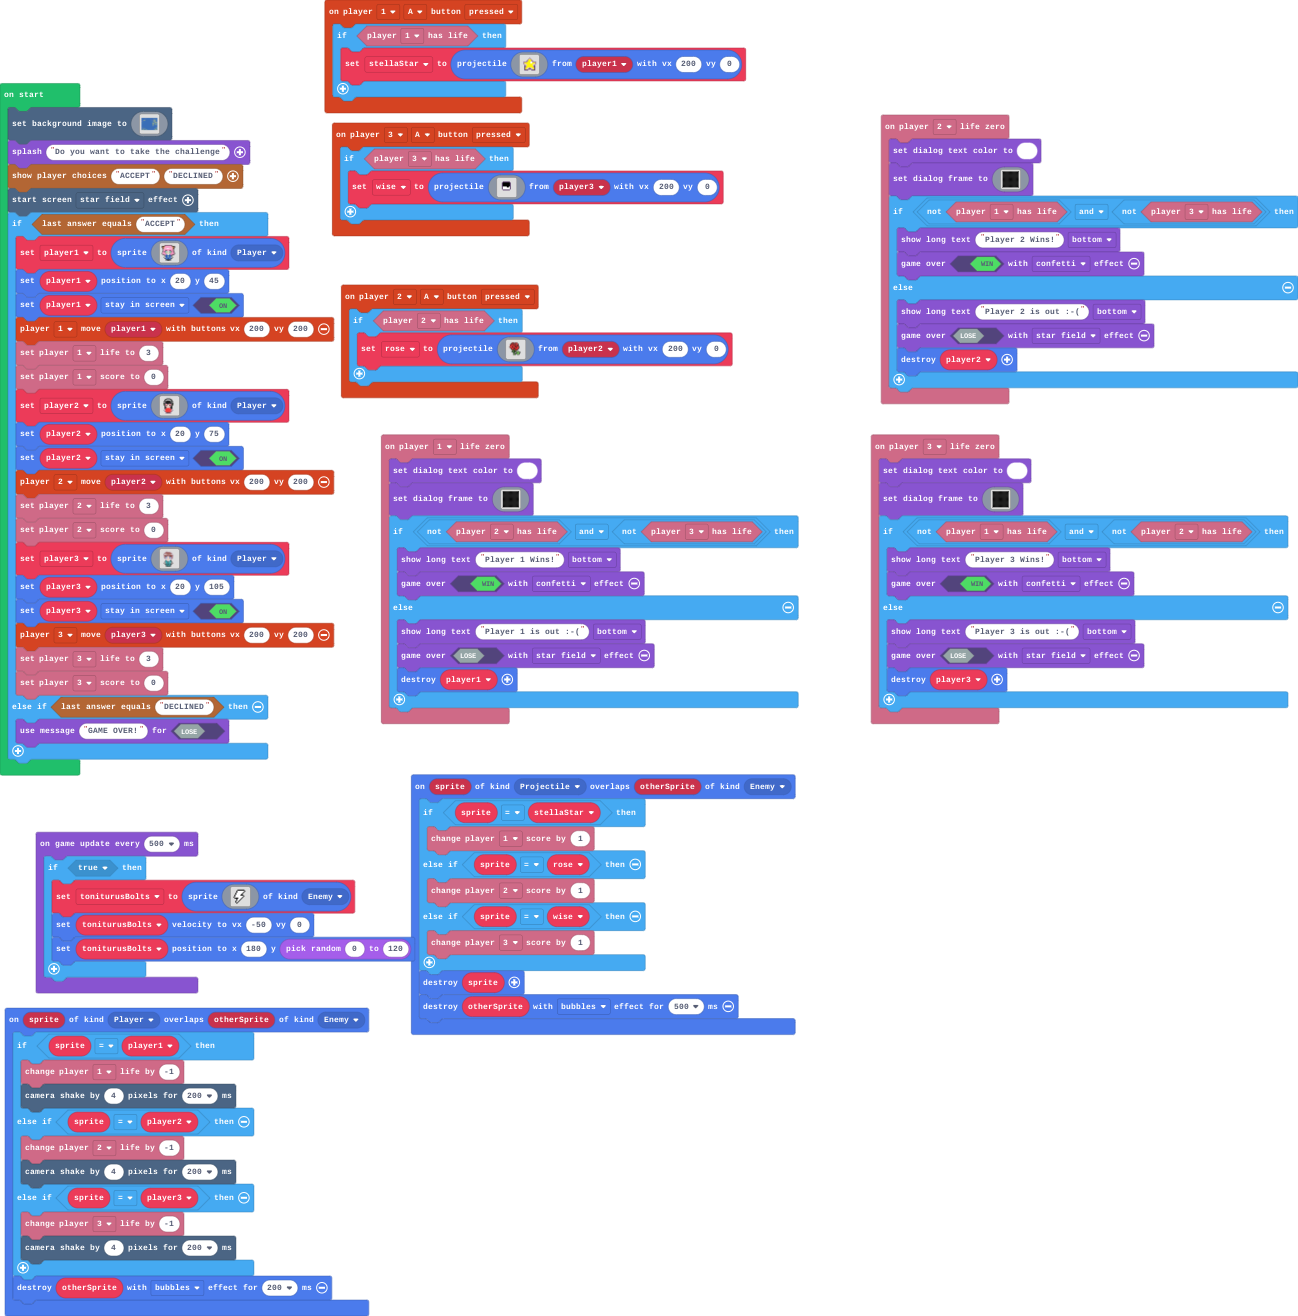
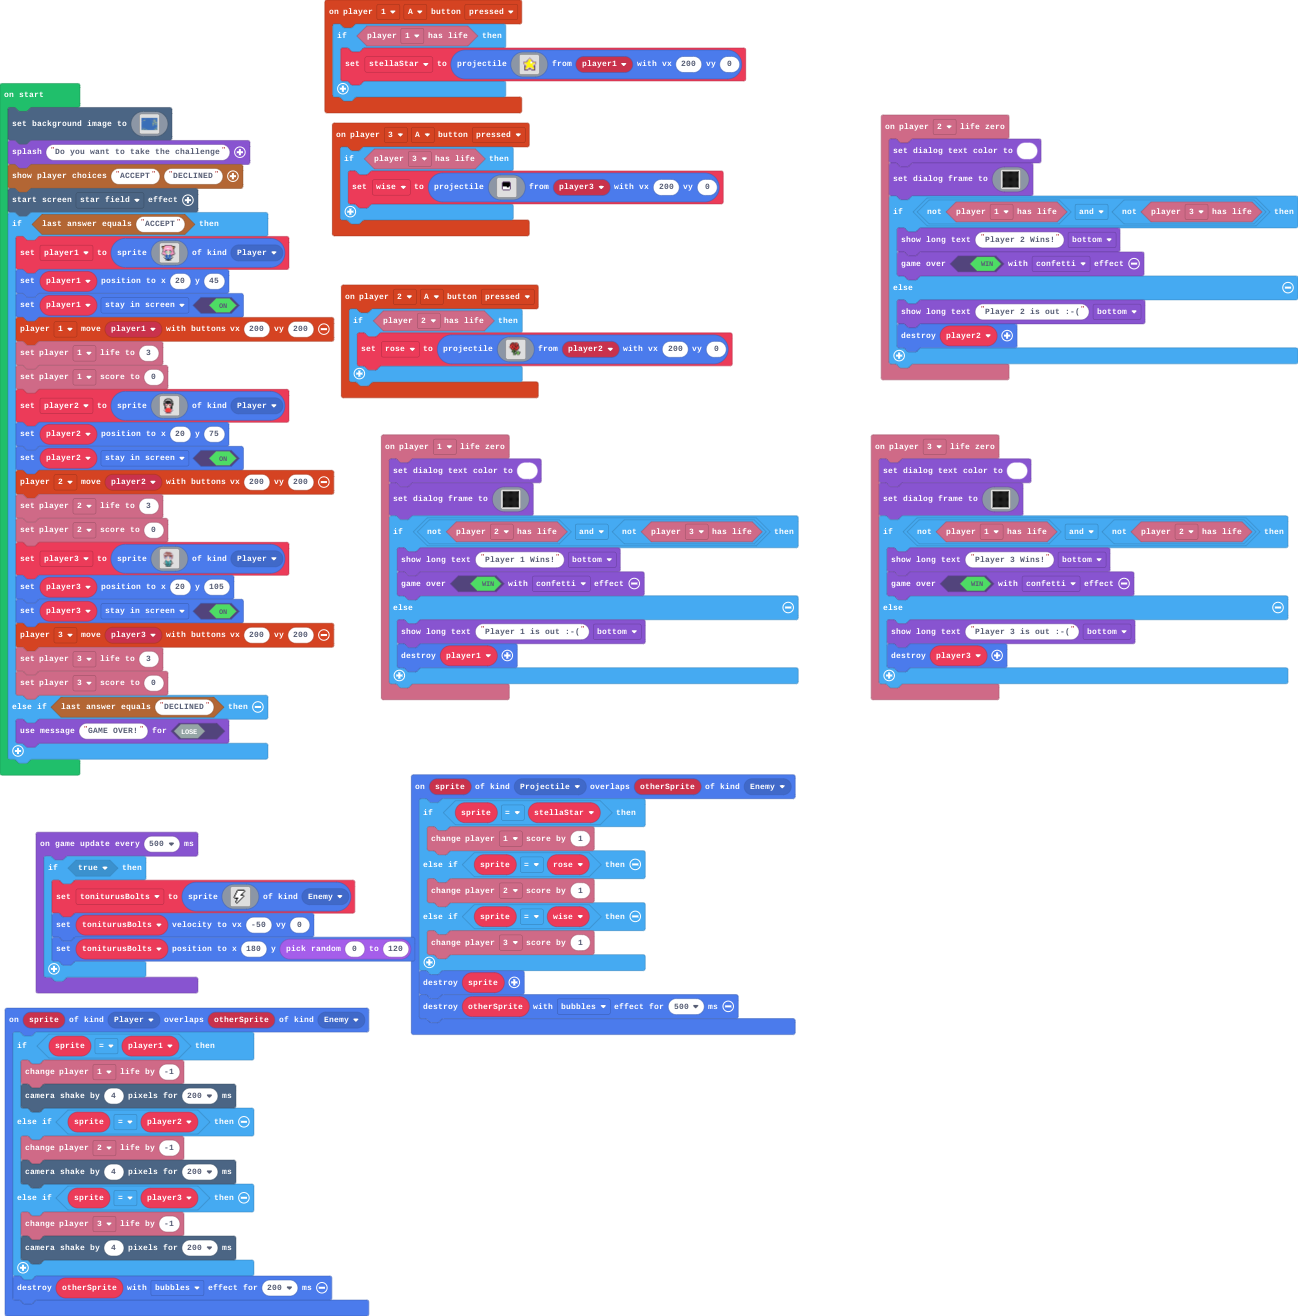
deleted "game over lose  with star field effect" block

Changed region(s): [[0.6471, 0.4673, 1.0, 0.5608], [0.2773, 0.4673, 0.6163, 0.5608], [0.678, 0.2492, 1.0, 0.3116]]

diff --git a/main.ts b/main.ts
@@ -27,7 +27,6 @@ info.player3.onLifeZero(function () {
         game.over(true, effects.confetti)
     } else {
         game.showLongText("Player 3 is out :-(", DialogLayout.Bottom)
-        game.over(false, effects.starField)
         player3.destroy()
     }
 })
@@ -77,7 +76,6 @@ info.player1.onLifeZero(function () {
         game.over(true, effects.confetti)
     } else {
         game.showLongText("Player 1 is out :-(", DialogLayout.Bottom)
-        game.over(false, effects.starField)
         player1.destroy()
     }
 })
@@ -127,7 +125,6 @@ info.player2.onLifeZero(function () {
         game.over(true, effects.confetti)
     } else {
         game.showLongText("Player 2 is out :-(", DialogLayout.Bottom)
-        game.over(false, effects.starField)
         player2.destroy()
     }
 })
